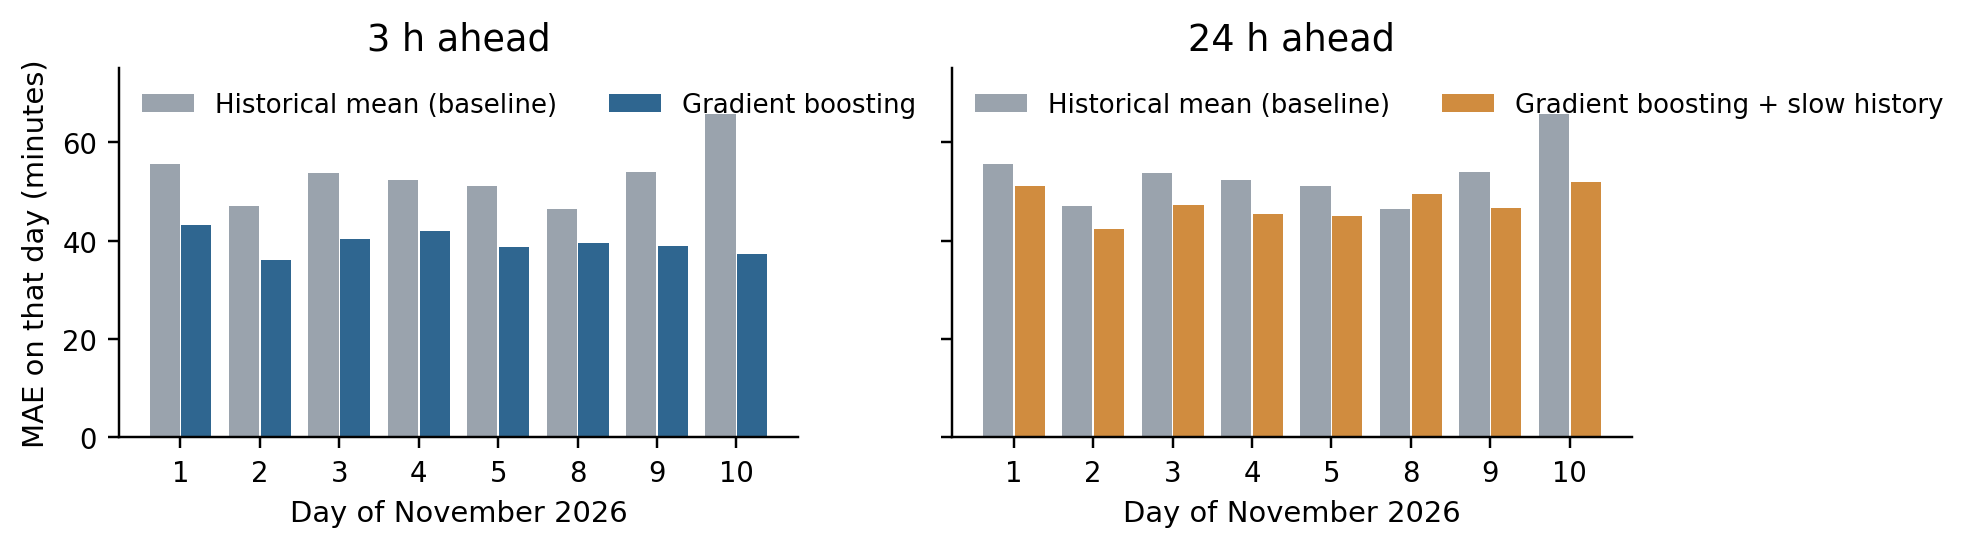
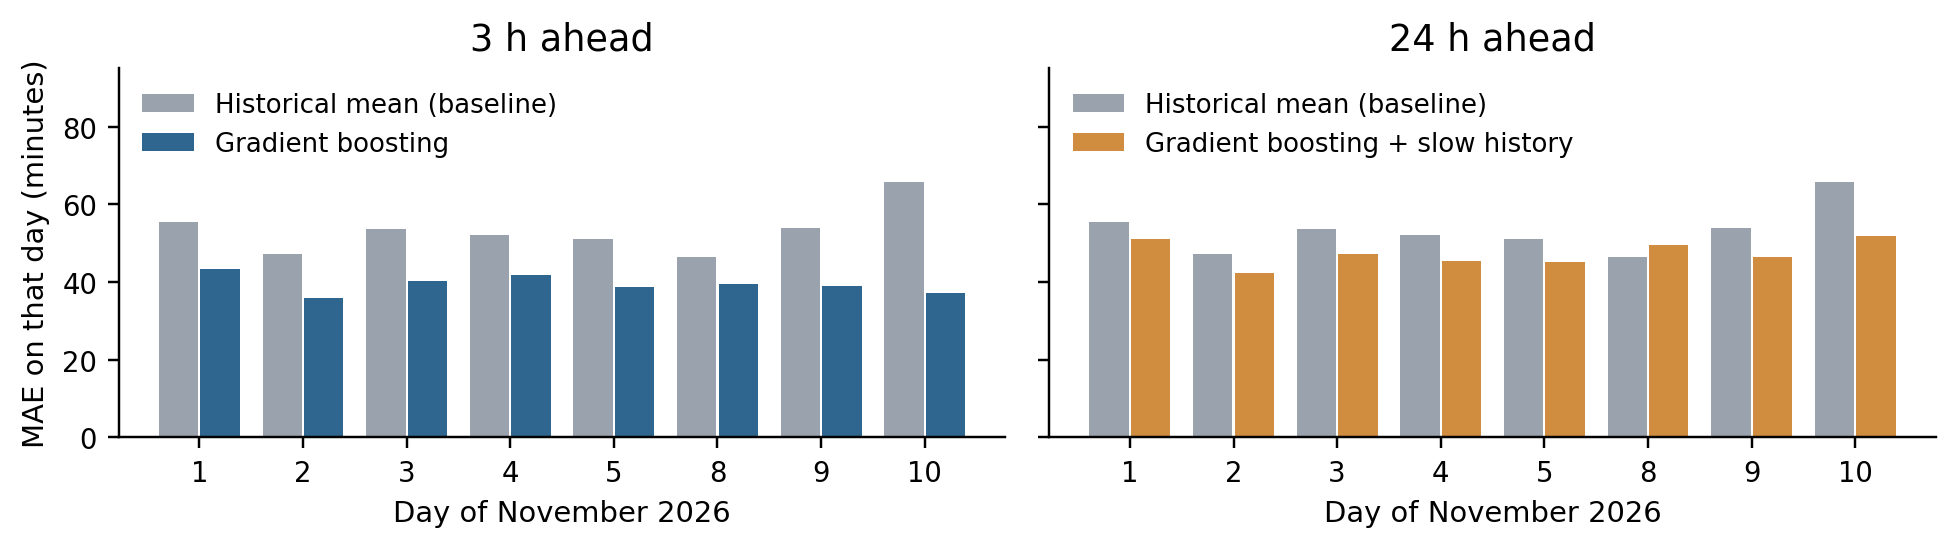
Typeset the report in the official course LaTeX template
The course released its report template on 11 November. The report text
now lives in report/report_official.md and is built with
report/build_final.py --official (pandoc + pdfLaTeX + the course style
file, which is not redistributed here). Section 4 follows the template's
three subsections; commands, the classification table and two figures
moved to Supplementary Materials to keep the main report within 8 pages.

diff --git a/report/build_official.py b/report/build_official.py
@@ -1,0 +1,69 @@
+"""Typeset the report in the official ELEC3544 LaTeX template (course style file, pdfLaTeX, BibTeX).
+
+Called by:  python3 report/build_final.py --official
+Source text: report/report_official.md (numbers filled in from results/ by build_final.py)
+Template:    report/template/elec3544_report.sty, the unchanged course style file from the Moodle template zip
+Output:      ../Assignments/Report/ELEC3544-Report-Group16.pdf
+"""
+import re, shutil, subprocess
+from pathlib import Path
+
+TITLE = "Predicting A\\&E Waiting Times in Hong Kong Public Hospitals"
+AUTHORS = ["CHEN Hongxi", "NI Haoran", "ZHU Yongkai"]
+PREAMBLE = r"""\documentclass[10pt,letterpaper]{article}
+\usepackage{elec3544_report}
+\usepackage[T1]{fontenc}
+\usepackage[utf8]{inputenc}
+\usepackage{amsmath,amssymb,graphicx,booktabs,tabularx,nicefrac,xcolor}
+\usepackage[hidelinks]{hyperref}
+\usepackage{microtype,needspace}
+% needed by the pandoc-generated body
+\usepackage{longtable,array,calc,float,enumitem,fancyvrb}
+\floatplacement{figure}{!htb}
+\setlist{itemsep=1pt,topsep=2pt,parsep=0pt,leftmargin=1.4em}
+\providecommand{\tightlist}{\setlength{\itemsep}{0pt}\setlength{\parskip}{0pt}}
+\providecommand{\pandocbounded}[1]{#1}
+\newcounter{none} % pandoc uses it for tables without a caption
+\setlength{\LTpre}{4pt}\setlength{\LTpost}{4pt}
+\AtBeginEnvironment{longtable}{\footnotesize}
+\DeclareUnicodeCharacter{2212}{\ensuremath{-}}
+\DeclareUnicodeCharacter{00B2}{\ensuremath{^2}}
+\DeclareUnicodeCharacter{00D7}{\ensuremath{\times}}
+\DeclareUnicodeCharacter{2265}{\ensuremath{\geq}}
+\DeclareUnicodeCharacter{2192}{\ensuremath{\to}}
+\DeclareUnicodeCharacter{2248}{\ensuremath{\approx}}
+\DeclareUnicodeCharacter{2260}{\ensuremath{\neq}}
+\RecustomVerbatimEnvironment{verbatim}{Verbatim}{fontsize=\scriptsize}
+"""
+
+
+def build(N, ROOT, OUT):
+    local = ROOT / "report/template/elec3544_report.sty"   # the course style file; get it from the Moodle template zip
+    tpl = local if local.exists() else next((ROOT.parent / "Assignments" / "Official-Template-20261111").rglob("elec3544_report.sty"))
+    B = Path.home() / "elec3544_data" / "build_official"          # no spaces in the path: pdfLaTeX is fussy
+    shutil.rmtree(B, ignore_errors=True); B.mkdir(parents=True)
+    shutil.copy(tpl, B); shutil.copy(ROOT / "report/references.bib", B)
+    N = dict(N)
+    N["table_post"] = N["table_post"].replace(" [10]", "")   # numeric marker from the old layout; cited in the text instead
+    for k in [k for k in N if k.startswith("fig_")]:
+        shutil.copy(N[k], B / f"{k}.png"); N[k] = f"{k}.png"
+    md = B / "body.md"
+    text = (ROOT / "report/report_official.md").read_text().format_map(N)
+    md.write_text(text)
+    m = re.search(r"\\begin\{abstract\}\n(.*?)\n\\end\{abstract\}\n", text, re.S)   # abstract goes through pandoc too, so & and % are escaped
+    tex = lambda t: subprocess.run(["pandoc", "-f", "markdown+raw_tex", "-t", "latex", "--wrap=none"], input=t, capture_output=True, text=True, check=True).stdout
+    body = "\\begin{abstract}\n" + tex(m.group(1)) + "\\end{abstract}\n\n" + tex(text[m.end():])
+    (B / "body.tex").write_text(body)
+    author = "Group 16\\\\\n" + "\\\\\n".join(AUTHORS)
+    (B / "main.tex").write_text(PREAMBLE + f"\\title{{{TITLE}}}\n\\author{{{author}}}\n\\begin{{document}}\n\\maketitle\n" + body + "\n\\end{document}\n")
+    run = lambda *c: subprocess.run(c, cwd=B, capture_output=True, text=True)
+    run("pdflatex", "-interaction=nonstopmode", "main"); run("bibtex", "main")
+    run("pdflatex", "-interaction=nonstopmode", "main"); r = run("pdflatex", "-interaction=nonstopmode", "main")
+    log = (B / "main.log").read_text(errors="ignore")
+    bad = [l for l in log.split("\n") if l.startswith("!") or "Undefined control" in l or "Citation" in l and "undefined" in l or "Missing character" in l]
+    over = re.findall(r"Overfull \\hbox \(([\d.]+)pt too wide\)", log)
+    print("LaTeX problems:", bad[:8] or "none", "| overfull boxes > 5pt:", sum(float(x) > 5 for x in over))
+    OUT.mkdir(parents=True, exist_ok=True)
+    shutil.copy(B / "main.pdf", OUT / "ELEC3544-Report-Group16.pdf")
+    shutil.copy(md, OUT / "ELEC3544-Report-Group16.md")
+    print(f"wrote {OUT / 'ELEC3544-Report-Group16.pdf'} (official template)")

diff --git a/report/build_final.py b/report/build_final.py
@@ -42,6 +42,7 @@ def main():
     ap.add_argument("--prefix", default="results/models_2026-10-30_v2")
     ap.add_argument("--v1", default="results/models_2026-10-30")
     ap.add_argument("--zip", default=str(ROOT.parent / "Assignments" / "Share" / "Group16-Project-data.zip"))
+    ap.add_argument("--official", action="store_true", help="build in the official course LaTeX template")
     a = ap.parse_args()
     N = br.numbers(a)
     f1, f3 = br.f1, br.f3
@@ -180,6 +181,9 @@ def main():
         log = log.replace(a_, b_)
     N["exp_log"] = log[log.index("| Date"):].replace("|---|---|---|---|---|", "|------|------------------|------------------|--------------------|-----------|")
 
+    if a.official:
+        import build_official
+        return build_official.build(N, ROOT, OUT)
     text = (ROOT / "report/report_final.md").read_text().format_map(N)
     OUT.mkdir(parents=True, exist_ok=True)
     md = OUT / "ELEC3544-Report-Group16.md"

diff --git a/src/plot_report.py b/src/plot_report.py
@@ -74,7 +74,7 @@ def fig_november():
         ax.bar(x - 0.2, g.ae_hist_mean, width=0.38, color=GREY, label="Historical mean (baseline)")
         ax.bar(x + 0.2, g[col], width=0.38, color=BLUE if H == 3 else TAN, label=name)
         ax.set_xticks(x, [t.strftime("%-d") for t in g.ts_f]); ax.set_xlabel("Day of November 2026"); tidy(ax)
-        ax.set(title=f"{H} h ahead", ylim=(0, 75)); ax.legend(fontsize=8.5, frameon=False, loc="upper left", ncol=2)
+        ax.set(title=f"{H} h ahead", ylim=(0, 95)); ax.legend(fontsize=8.5, frameon=False, loc="upper left", ncol=1)
     axes[0].set_ylabel("MAE on that day (minutes)")
     fig.tight_layout(); fig.savefig("results/report_fig_november.png", bbox_inches="tight"); plt.close(fig)
 

diff --git a/report/report_official.md b/report/report_official.md
@@ -1,0 +1,234 @@
+\begin{{abstract}}
+We forecast how long semi-urgent and non-urgent patients (triage categories 4 and 5) will wait at Hong Kong's {n_hosp} public Accident and Emergency (A&E) departments, 3 hours and 24 hours ahead. The Hospital Authority publishes only the current wait, so we rebuilt {n_rows_latest} hospital-hours of history (1 January 2023 to 10 November 2026) from the government's archive, reconciled a change of feed format in October 2025, and compared five model families with simple baselines. On October 2026, held out from the fitting and selection of the reported 3-hour model, gradient boosting cut the 3-hour error from {hm_mae3} to {gb_mae3} minutes, {gain_mae3}% below the same-slot historical average; on 1–10 November, downloaded after the models were frozen, it scored {nov_gb3} against {nov_hm3}. A check we added after that test changes how the result should be read: a one-parameter rule, the recent level plus a share of the current deviation, already reaches {r3_oct} minutes on the complete October and {r3_nov} in November, so boosting adds about 2 minutes on top of it, and a pretrained time-series foundation model used zero-shot comes within {fm_gap} minutes of our trained model. At 24 hours no model reliably beat such a rule. Recent waits carry almost all the signal; weather and air quality added none in our tests.
+\end{{abstract}}
+
+
+# Introduction
+
+Almost everyone in Hong Kong has waited at an A&E. Waits for non-urgent patients often exceed several hours and differ widely between hospitals and across the day. The Hospital Authority (HA) publishes the current wait at each A&E every 15 minutes \citep{{ha_feed}}, but no forecast. A patient deciding whether to go now, later, or to another hospital needs the wait at the time they will arrive.
+
+**Objective.** Given the hospital, the time, the calendar and recent waits, predict the category 4/5 median wait 3 hours and 24 hours ahead, in minutes (regression) and as "over 2 hours or not" (classification). A secondary question is which group of factors matters most: the clock, the hospital, recent congestion, weather or air quality.
+
+**Contributions.** (i) A cleaned dataset of {n_rows_latest} hospital-hours rebuilt from {n_files} archived snapshots, with two feed formats reconciled and the archive gaps documented. (ii) A protocol that uses only information available at forecast time, with one validation month and two later test periods. (iii) Evidence that the 3-hour wait is predictable, with an honest decomposition: most of the gain is available to a one-parameter rule and gradient boosting adds about 2 minutes; at 24 hours we report a negative result. (iv) An ablation showing that congestion follows its own momentum and the clock, not the weather or air quality.
+
+# Data and Preprocessing
+
+## Sources and access
+
+**A&E waiting times.** HA's open-data feed \citep{{ha_feed}} is one JSON file covering all {n_hosp} public A&Es. The live file holds only the latest snapshot, so we rebuilt the history through the data.gov.hk historical-archive API \citep{{datagov_archive}}, which stores past versions of the file. Three problems shaped the downloader (`src/download_ae_archive.py`):
+
+- the version-listing endpoint silently truncates at about 35,000 results, so we query one calendar month at a time;
+- it rejects end dates of today or later, so each query is capped at yesterday;
+- 96 snapshots a day over almost four years is about 130,000 files, so we kept one snapshot per hour and ran 8 resumable workers.
+
+The result is {n_files} snapshot files ({n_rows_latest} hospital-hours) from 1 January 2023 to 10 November 2026. The archive itself is incomplete: it has **no versions at all** on {n_gap_days} days of October 2026 ({gap_days}) and on 6–7 November, plus 12 days from 29 August to 9 September 2025.
+
+**Auxiliary data.** Daily weather (rainfall, humidity, mean, maximum and minimum temperature) from the Hong Kong Observatory \citep{{hko_daily}}; the hourly Air Quality Health Index (AQHI) from the Environmental Protection Department \citep{{epd_aqhi}}, matched to the station nearest each hospital; and public holidays \citep{{hk_holidays}}. The government's holiday feed starts in 2025, so every 2023–2024 holiday was silently labelled a normal day until we added the official lists by hand ({n_holiday_hours} holiday hospital-hours after the fix, 12,942 before).
+
+## Cleaning and feature preparation
+
+- **Text to minutes.** Waits arrive as strings such as "less than 15 minutes" or "2.5 hours". The parser (`src/parse_ae.py`) is unit-tested and left no unparsed value. The values are coarse: every new-format wait in our hourly table is a multiple of 30 minutes, and {q120} of hours sit exactly at 120 minutes, the boundary of the "over 2 hours" label.
+- **Two formats.** Before 13 October 2025 each hospital reported one category such as "Over 3 hours"; since then it reports the median and 95th-percentile wait per triage group. The old category is only a lower bound, so the minute-level target exists only from October 2025 ({n_rows_new_latest} hospital-hours). The "over 2 hours" label can be derived from both formats and covers all four years.
+- **Exact time steps.** Missing snapshots mean "the previous row" is not always "one hour earlier". We re-index every hospital to a complete hourly grid before computing any lag, so a lag of *k* is exactly *k* hours and missing hours stay missing ({n_missing_pct}% of the grid).
+- **No look-ahead.** Features use waits up to the forecast hour, AQHI at that hour, and the *previous* day's weather, because a day's weather summary is not known until the day ends. The calendar of the target hour is known in advance.
+
+## What the data shows
+
+![Left: mean category 4/5 wait by hour of day. Right: monthly share of hours with a wait over 2 hours; the dashed line is the format change on 13 October 2025.]({fig_eda}){{width=74%}}
+
+- **A strong daily cycle.** On weekdays the mean wait bottoms out at about {trough_min} minutes at {trough_hr}:00 and peaks at about {peak_min} minutes at {peak_hr}:00. Weekend and holiday evenings are {wkend_gap} minutes shorter at 21:00.
+- **Large differences between hospitals**, from {least_busy_min} minutes ({least_busy}) to {busiest_min} minutes ({busiest}) on average.
+- **A break at the format change.** In October 2025 itself the old feed put {oct25_old}% of hours above 2 hours and the new feed {oct25_new}%. Part of the drop is the definition (lower bound against median), not the patients. A model trained on the old years without accounting for this over-predicts long waits.
+
+# Methodology
+
+**Task.** Each row is one hospital at one forecast hour *t*; the target is the value at *t* + *h* for *h* = 3 and 24 hours.
+
+**Baselines.** *Persistence*: the wait at *t* + *h* equals the wait now. *Historical mean*: the training-set average for the same hospital, weekday and hour. A model is only useful if it beats both. After the live test we added stronger rules (below and Section 5.4).
+
+**Features.**
+
+| Group | Features |
+|------------------------|------------------------------------------------------------------------|
+| Calendar (target hour) | hour, weekday, month, weekend, public holiday |
+| Hospital | hospital identity |
+| Recent history | wait now, 1 h and 3 h ago; same clock hour yesterday and last week; 6 h and 24 h rolling means; over-2 h flag now |
+| Historical mean | the baseline value itself, as a feature |
+| Air quality, weather | AQHI now; previous day's rainfall, humidity and temperatures (dropped in the final model, Section 5.2) |
+| Era | old or new feed format (classification only) |
+| Slow history (24 h only) | mean of the same clock hour over the last 7 days; 7-day rolling mean (added in Section 5.2) |
+
+**Models.** We followed the progression taught in the course: ordinary least squares (OLS) with calendar and hospital only, OLS with all features, ridge and lasso, random forest \citep{{breiman2001}}, and histogram gradient boosting \citep{{friedman2001}} with an absolute-error loss, which matches the MAE metric and is robust to the long right tail of waits. For "over 2 hours" we used logistic regression, random forest and gradient boosting. All models come from scikit-learn \citep{{scikit-learn}}.
+
+**Methods added after the live test (results in Section 5.4).** Three rules that use only waits observed up to the forecast hour: the mean of the target's clock hour over the previous 28 days; the historical mean plus a weight times the current deviation from it; and the 28-day mean plus a weight times the current deviation from the 28-day mean. Each weight is a single least-squares coefficient fitted on the training rows. We also fitted one decision tree, quantile gradient boosting for the 10%, 50% and 90% levels, and ran Chronos-Bolt \citep{{ansari2024chronos}}, a pretrained time-series foundation model, zero-shot on the last 512 hours of each hospital's own series.
+
+**Main decisions and the alternatives we considered.**
+
+| Decision | Alternative considered | Evidence | Outcome |
+|--------------------|--------------------|--------------------------|--------------|
+| Historical mean computed on the new format only (classification) | Average over all years | Old feed has {pos_old}% positives against {pos_new}% now; baseline accuracy on validation rose from {hm_acc_old} to {hm_acc_val} | Kept: a fairer bar |
+| Train the classifier on all years with an era flag | Train on the new format only | Test AUC {auc_A3} against {auc_B3} at 3 h | Equal for boosting; era flag kept |
+| Gradient boosting as the main model | Linear models, random forest | 3 h test MAE {gb_mae3} against {ols_mae3} (OLS) and {rf_mae3} (forest) | Kept |
+| Drop weather and AQHI | Keep all features | Removing either lowers the 3 h validation error (Figure 2a); October weather was not yet published | Dropped |
+| Slow history for 24 h | Residual target; shrinking towards the baseline | Validation MAE {v_slow} against {v_orig} (Figure 2b) | Kept on validation; no better than a simple rule (5.4) |
+| Default 3-point grid for the 3 h model | 54-configuration search | Validation {tuned_val} against {gb_val3}, test {tuned_test} against {gb_mae3} | No gain; original reported |
+| Judge models against one-parameter rules | Historical mean as the only bar | Best rule scores {r3_oct} against {post_hm_oct} at 3 h (Table 3) | Conclusions rewritten |
+| Uncalibrated classifier | Isotonic calibration \citep{{zadrozny2002}} | Slightly better on September in sample; October Brier {brier_iso} against {brier_raw} without it | Not adopted (decided on October) |
+
+\Needspace{{15\baselineskip}}
+
+# Experiments and Reproducibility
+
+## Experimental Protocol
+
+**Splits.** Rows are split by the time of the *target*, so no training target lies in a later period.
+
+| Set | Target hours | Use | Regression rows | Classification rows |
+|-----------|-------------------|--------------------------------|-----------|-----------|
+| Train | to 31 Aug 2026 | fitting | {n_train_reg} | {n_train_cls} |
+| Validation | September 2026 | choices for the reported models | {n_val} | {n_val} |
+| Test | 1–29 Oct 2026 | scored after the 30 Oct choices | {n_test} | {n_test} |
+| Live test | 1–10 Nov 2026 | downloaded on 11 Nov, scored once | {nov_n} | {nov_n} |
+
+**Leakage controls.** (i) Chronological split by target time. (ii) Lags on an exact hourly grid. (iii) Previous-day weather only. (iv) The historical mean is computed from training rows only; as a feature it is also used on those same training rows, a mild form of target encoding that cannot affect the validation or test scores. (v) Hyper-parameters, feature groups and the 24 h variant were chosen on September; October and November were scored afterwards. One caveat: the 24 h slow-history variant and the 54-configuration search were run on 4 November, after we had seen the first October results, so for those two experiments October is not strictly blind, and November is the clean test.
+
+**Metrics.** Regression: mean absolute error (MAE, minutes) and R²; RMSE is in the result files. Classification: accuracy, precision and recall at a 0.5 threshold, ROC-AUC and the Brier score. For differences between methods we report a 95% bootstrap interval that resamples whole days (2,000 resamples), because hours within a day are correlated. With only 8 days in November these intervals are likely too narrow, so we also count the days each method wins.
+
+**Hyper-parameters and seeds.** Gradient boosting: 400 iterations, no early stopping, learning rate 0.05, 63 leaves for regression (chosen from three settings on validation) and 31 for classification. Random forest: 150 trees, minimum leaf 20, half of the features per split, fitted on at most 150,000 sampled rows. Ridge and lasso strengths chosen on validation from 0.1–100 and 0.01–1. Logistic regression: C = 1. Decision tree: minimum leaf 50, depth chosen on validation from 6, 10 and 14 ({dt3} at 3 hours, {dt24} at 24). Rule weights: {b3} at 3 hours, {b24} at 24. Quantile boosting uses the regression settings. Every random seed is 0.
+
+**Differences from the proposal.** October became a held-out test month instead of a second validation month. The final test covers 1–10 November, not 1–15, because the report was completed on 11 November. The decision tree is in Section 5.4. We report precision and recall instead of a confusion matrix, and a drop-one-group ablation instead of tree feature importance. The planned live-feed collector was written but never scheduled, so the tests rely on the archive.
+
+## Data and Code for Reproduction
+
+**Data and code versions.** Raw data: archive versions of the two HA feed URLs \citep{{ha_feed,datagov_archive}}, one per hour, 1 January 2023 to 10 November 2026. The October results use the table frozen on 30 October (`hourly_features_full.csv`, {n_rows} rows); the November test uses the table rebuilt on 11 November (`hourly_features_latest.csv`, {n_rows_latest} rows). Code, result files and the experiment log are public at <https://github.com/JimmyChan233/elec3544-ae-waiting-times>, commit `2eb14ae` (tag `freeze-2026-11-11`). The processed tables are the release asset `Group16-Project-data.zip` (SHA-256 `{zip_sha}…`).
+
+**Reproducing the results.** Clone the repository, install `requirements.txt`, and unzip the data release into `data/processed/` (or rebuild it from the archive). One script per step then regenerates every number, table and figure, and `report/build_final.py` fills this report from the result files. The exact commands, in order, are in the Supplementary Materials. The October runs read the table frozen on 30 October (`hourly_features_full.csv`, data to 29 October). Rebuilding from the archive today also returns 30–31 October; on the complete month the frozen 3-hour model scores {oct_full_gb3} against {oct_full_hm} minutes, the same conclusion. The full experiment log is `EXPERIMENT_LOG.md` in the repository.
+
+## Computing Platform and Environment
+
+Apple MacBook Pro, M4 Pro (14 CPU cores, no GPU used), 48 GB memory, macOS 27.0; Python 3.12.5, scikit-learn 1.8.0, pandas 3.0.2, NumPy 2.1.3, matplotlib 3.10.8 (pinned in `requirements.txt`). The main training run takes about 10 minutes, the November test about 8 and the post-hoc checks about 5. The foundation model ran on the same CPU in a separate environment (chronos-forecasting 2.3.2, PyTorch 2.15.0; 18,090 forecasts in 71 seconds).
+
+# Results and Discussion
+
+\Needspace{{16\baselineskip}}
+
+## October 2026 test
+
+{table_reg}
+
+**Three hours ahead, every model that uses recent waits beats both original baselines.** The error falls from {hm_mae3} minutes for the historical mean to {ols_mae3} for OLS, {rf_mae3} for the random forest and {gb_mae3} for gradient boosting, {gain_mae3}% below the baseline. OLS with only the calendar and the hospital is *worse* than the historical mean; adding recent waits is what makes a linear model useful, and the tree models gain a few more minutes from interactions. Ridge and lasso match OLS: with {n_train_reg} training rows there is little to regularise.
+
+**Twenty-four hours ahead, no first-round model has a clear or stable advantage over the historical mean.** Gradient boosting looked better on validation ({gb_val24} against {hm_val24}) but not on the test month ({gb_mae24} against {hm_mae24}); the full-feature linear models and the forest end within 0.3 minutes of the baseline. The classifier tells the same story (Table 4 and Figure 4, Supplementary Materials). Logistic regression trained on all years falls below the baseline; trained on the new format only it reaches AUC {logit_b} at 3 hours, so the era flag is enough for trees but not for a linear model.
+
+## What each further experiment taught us
+
+![(a) Change in validation MAE when one feature group is removed and gradient boosting is refitted. (b) The historical mean and four 24-hour boosting variants on September validation.]({fig_dev}){{width=80%}}
+
+- **Ablation (Figure 2a).** Removing recent waits changes the 3-hour validation error by {abl_hist3} minutes, the calendar by {abl_cal3} and the hospital by {abl_hosp3}. Removing weather ({abl_wx3}) or AQHI ({abl_air3}) slightly *improves* the model, so the final model drops both. This answers the secondary question: A&E congestion follows its own momentum and the clock. Dropping weather was not a clear win at 24 hours, though: validation improved by {abl_wx24_abs} minutes but the October error moved from 51.1 to {gb_mae24}, both within noise of the baseline. Two cautions: October weather was not yet published ({wx_missing} of test-month values missing), and the 3-hour validation differences are 0.1–0.3 minutes in one month. "Weather adds nothing" is a finding about September, with daily city-wide data.
+- **The 24-hour horizon (Figure 2b).** We tried three ideas: predict the residual from the historical mean, shrink the prediction towards the historical mean, and add slower history. Only the last helped on validation ({v_slow} against {v_orig}); the best shrinkage weight was close to 1, meaning no shrinkage. On October the slow-history model scored {slow_oct} minutes against {hm_mae24} for the baseline, a gain of about one minute.
+- **Tuning the 3-hour model.** A 54-configuration search improved validation by only 0.1 minute ({tuned_val} against {gb_val3}) and gave {tuned_test} on October against {gb_mae3} for the original setting. The model is limited by its inputs, not its hyper-parameters. We saw October before deciding, so we report both settings side by side. The same applies to isotonic calibration (Section 3).
+
+## Live test on 1–10 November 2026
+
+All choices above were fixed by 4 November. On 11 November we downloaded 1–10 November (8 days; the archive has nothing for 6–7 November) and scored the frozen models, trained on data before September, without any change.
+
+{table_nov}
+
+- **The 3-hour result holds.** The error is {nov_gb3} minutes against {nov_hm3} for the baseline, a gain of {nov_d3} minutes (95% interval {nov_ci3}), and the model wins on {w3_live} days (Figure 3, Supplementary Materials). AUC rises from {nov_auc_hm} to {nov_auc_gb3}.
+- **At 24 hours both boosting models beat the historical mean, but slow history is not the reason.** The first model already scores {nov_gb24} ({nov_dgb24} below the baseline, 95% interval {nov_cigb24}); slow history gives {nov_slow24} ({nov_d24} below, interval {nov_ci24}) and wins on {w24_live} days. Over the complete October slow history gained only {oct_d24} minutes (interval {oct_ci24}). The historical mean is a ten-month average and November ran below it, which flatters any method that tracks the recent level (Section 5.4).
+- **A practical check.** For every pair of hospitals and every November hour where the real waits ended at least 30 minutes apart ({pw_n} cases; a tie counts as half), we asked which hospital each method expected to be quicker three hours later. The shorter wait on the board now is right {pw_now} of the time, the historical mean {pw_hist}, and the model {pw_model} (`src/live_predictions.py`). The one-parameter rule of Section 5.4 is right {pw_rule} of the time, level with the model.
+
+## Were the baselines too easy? (added after the live test)
+
+An independent review of our draft asked whether the historical mean, a ten-month average, is too weak a bar. On 11 November, after November had been scored, we added three simple rules, each using only waits observed up to the forecast hour and at most one weight fitted on the training rows, the decision tree promised in the proposal, a boosting model given the same level information, and a pretrained foundation model. Nothing in this section is a blind test.
+
+\Needspace{{13\baselineskip}}
+
+{table_post}
+
+- **Three hours.** The best rule on validation is *level + anomaly*: the 28-day mean for the target's clock hour, plus {b3} of the gap between the wait now and the 28-day mean for the current hour. It scores {r3_oct} and {r3_nov} minutes. Gradient boosting is {g3_oct} minutes better in October (interval {g3_oct_ci}) and {g3_nov} better in November (interval {g3_nov_ci}), ahead on {w3_oct} October days and {w3_nov} November days. So of the 11–14 minutes gained over the historical mean, about four fifths is information a single weight can use; the model adds a small, consistent remainder.
+- **Twenty-four hours.** The same rule scores {r24_oct} and {r24_nov}. Slow-history boosting is within noise of it ({s24_oct} in October, interval {s24_oct_ci}; {s24_nov} in November, interval {s24_nov_ci}), and the first boosting model is worse. Our conclusion for this horizon is negative: no model we built reliably beats a one-parameter rule. Giving boosting the same level features does not change this conclusion.
+- **A foundation model, zero-shot.** Chronos-Bolt \citep{{ansari2024chronos}} saw only the last 512 hourly waits of one hospital: no training on our data, no calendar, no hospital identity. At 3 hours it scores {fm3_oct} and {fm3_nov} minutes, better than every simple rule and {fm_gap} minutes behind our trained model; it is ahead of our model on {fm_days} November days. Its 10–90% range contained {fmc_oct} and {fmc_nov} of outcomes, closer to the nominal 80% than ours. At 24 hours ({fm24_oct} and {fm24_nov}) it is worse than the best rule. It recovers most of what our pipeline achieved at 3 hours with no feature engineering.
+- **A range instead of a point.** Quantile gradient boosting (10%, 50%, 90%) gives a 3-hour range about {qw} minutes wide that contained {qc_oct} of October and {qc_nov} of November outcomes, against a nominal 80%: slightly too narrow, but more honest than a single number with a 40-minute error.
+
+## Limitations
+
+- **Short test periods.** October is one month with {n_gap_days} days missing, and November is 8 days. The 3-hour gain over the historical mean is clear; the 2-minute gain over the best simple rule is consistent across days but small, and Section 5.4 was added after both test periods had been seen.
+- **One year of minute-level data.** The target exists only since October 2025, so seasonal effects such as the winter influenza peak were seen once.
+- **An error of 40 minutes is still large** against a typical wait of two to three hours, and the target moves in 30-minute steps. A range (Section 5.4) is the better way to present the forecast.
+
+# Conclusion
+
+**Supported by the evidence.** A&E waits in Hong Kong can be forecast a few hours ahead: on two periods held out from development, the 3-hour error is about a fifth to a quarter below the historical average. Most of that comes from two pieces of information, the recent level and the current deviation from it, which a one-parameter rule already uses; gradient boosting adds about 2 minutes more, consistently, and a zero-shot foundation model lands between the two. Weather and air quality, as we measured them, added nothing.
+
+**Not supported.** A day ahead, no model reliably beat a simple rolling rule. The 24-hour gains we first reported against the historical mean reflect a drifting level, not skill.
+
+**Next steps.** Schedule the live-feed collector to cover archive gaps and extend the test period; score the blind test on 11–15 November that we pre-registered on 11 November (`PREREGISTRATION.md` in the repository); add slower signals such as influenza surveillance for the 24-hour horizon; calibrate the forecast range; and try hourly district rainfall before ruling weather out.
+
+\Needspace{{12\baselineskip}}
+
+# Author Contributions {{.unnumbered}}
+
+| Member | Specific work | Evidence / outputs |
+|-------------|------------------------------------------------|--------------------------------|
+| CHEN Hongxi | Data sourcing and archive download; parsing and cleaning; feature pipeline; baselines and first models; November live test; post-hoc baseline checks and the foundation-model baseline (Section 5.4); integration of the report and slides | `download_ae_archive.py`, `parse_ae.py`, `build_features.py`, `train_models.py`, `live_test.py`, `posthoc_checks.py`, `foundation_baseline.py` |
+| NI Haoran | 24-hour forecasting experiments: residual-target modelling, slower-history features and prediction shrinkage. Reviewed the experiment code and the validation and test outputs, compared the selected approach with the historical-mean baseline, and examined the limits of the observed improvement | `ni_24h_experiments.py`, `hn_24h_*.csv` |
+| ZHU Yongkai | 3-hour model analysis: hyper-parameter tuning, probability calibration and error comparisons across hospitals and hours. Reviewed the analysis code and outputs, compared validation and test performance, and examined why tuning and calibration did not consistently improve generalisation | `zhu_3h_analysis.py`, `zy_3h_*.csv` |
+
+# AI Tool Use {{.unnumbered}}
+
+We used Claude Code (Anthropic) throughout the project. It wrote most of the Python code for downloading, parsing, feature building, model training and the November test, and produced first drafts of this report and of the slides, working from our questions, instructions and decisions. Kimi was used to run the two follow-up experiments of 4 November (the 24-hour variants and the 3-hour search and calibration). We verified the outputs as follows:
+
+- unit tests for the wait-string parser, a check that no value was left unparsed, and snapshot counts per day against the expected 24, which is how we found the empty archive days;
+- a chronological protocol in which test periods were scored only after the choices were fixed, and a November test on data downloaded only after the models were frozen;
+- an independent re-run of the 24-hour slow-history experiment with the main code, which reproduced its numbers (validation {v_slow}, October {slow_oct});
+- the tables and nearly all numbers in the text are filled in by a script from the result files; the few typed by hand were re-checked against those files;
+- the pretrained Chronos-Bolt model \citep{{ansari2024chronos}} is used only as a baseline (Section 5.4), unmodified, scored on the same rows as every other method;
+- a second AI agent reviewed the finished draft as a strict marker. It spot-checked the numbers, audited the code for leakage (none found) and argued that our baselines were too weak. We tested that claim ourselves in `src/posthoc_checks.py`, found it correct, and rewrote our conclusions (Section 5.4).
+
+
+```{{=latex}}
+\Needspace{{8\baselineskip}}
+{{\small
+\bibliographystyle{{plainnat}}
+\bibliography{{references}}
+}}
+```
+
+\clearpage
+
+# Supplementary Materials {{.unnumbered}}
+
+**Commands to reproduce the results**, run from a clone of the repository, in this order. The PDF build needs pandoc and a TeX distribution; the foundation model runs in a separate environment (`requirements-foundation.txt`).
+
+```
+pip install -r requirements.txt && python3 -m pytest -q tests/
+# data: unzip the release asset Group16-Project-data.zip into data/processed/, or rebuild it:
+python3 src/download_ae_archive.py --start 20230101 --end 20261110 --every 4 --out ~/elec3544_data/raw/ae
+python3 src/fetch_aux.py
+python3 src/parse_ae.py --raw ~/elec3544_data/raw/ae --out data/processed/ae_snapshots_latest.csv
+python3 src/build_features.py --ae data/processed/ae_snapshots_latest.csv \
+        --out data/processed/hourly_features_latest.csv
+python3 src/train_models.py --out results/models_2026-10-30               # all features (ablation)
+python3 src/train_models.py --drop weather air --out results/models_2026-10-30_v2   # Tables 1 and 4
+python3 src/ni_24h_experiments.py       # 24 h variants (Figure 2b)
+python3 src/zhu_3h_analysis.py          # 54-configuration search, calibration
+python3 src/live_test.py                # November live test (Table 2, Figure 3)
+python3 src/live_predictions.py         # per-hour November forecasts, pairwise check
+python3 src/posthoc_checks.py && python3 src/posthoc_pairwise.py   # Section 5.4 (Table 3)
+python3 src/foundation_baseline.py      # Chronos-Bolt, separate env: requirements-foundation.txt
+python3 src/plot_report.py && python3 report/build_final.py --official   # PDF: pandoc + pdfLaTeX, course style file
+```
+
+**The November test day by day.** Figure 3 shows the error on each of the 8 test days for the frozen models and the historical-mean baseline.
+
+![Error on each November day for the frozen models against the historical-mean baseline.]({fig_nov}){{width=80%}}
+
+**Where the model fails.** The 3-hour error is largest around midnight (about {err_night} minutes at 00:00–02:00) and smallest in the morning ({err_morning} minutes at 07:00–08:00), following the level of the wait itself. By hospital, the model helps most where waits are long and volatile: {top_gain}. It adds almost nothing at the most stable departments: {low_gain}.
+
+**Classification detail and the full model comparison.** Table 4 gives the October classification results summarised in Section 5.1; Figure 4 shows the same October comparison as Table 1 as a chart, with the classifier AUC.
+
+{table_cls}
+
+![October 2026 test results for every model. The dotted line marks the historical-mean baseline at 3 hours.]({fig_models}){{width=86%}}
+

diff --git a/README.md b/README.md
@@ -19,7 +19,7 @@ gradient boosting adds about two minutes, and a day ahead nothing we built beats
 - `PREREGISTRATION.md`: the blind test on 11–15 November 2026, fixed before that data existed.
 - `report/report_final.md`: the report source; `report/build_final.py` fills in every number from `results/`.
 - Processed tables are in the release asset `Group16-Project-data.zip`; unzip it into `data/processed/` (see `data/processed/README.md`).
-- Rebuilding the report PDF (`report/build_final.py`) also needs pandoc and XeLaTeX from TeX Live, which provides the Linux Biolinum font; the experiments need only Python.
+- The submitted report uses the official course LaTeX template: `python3 report/build_final.py --official` (text in `report/report_official.md`; needs pandoc, pdfLaTeX and the course style file `elec3544_report.sty` in `report/template/`). The experiments need only Python.
 - AI tools were used heavily in this project; the report's "Use of AI tools" section says how and how the outputs were checked.
 
 ## Pipeline
